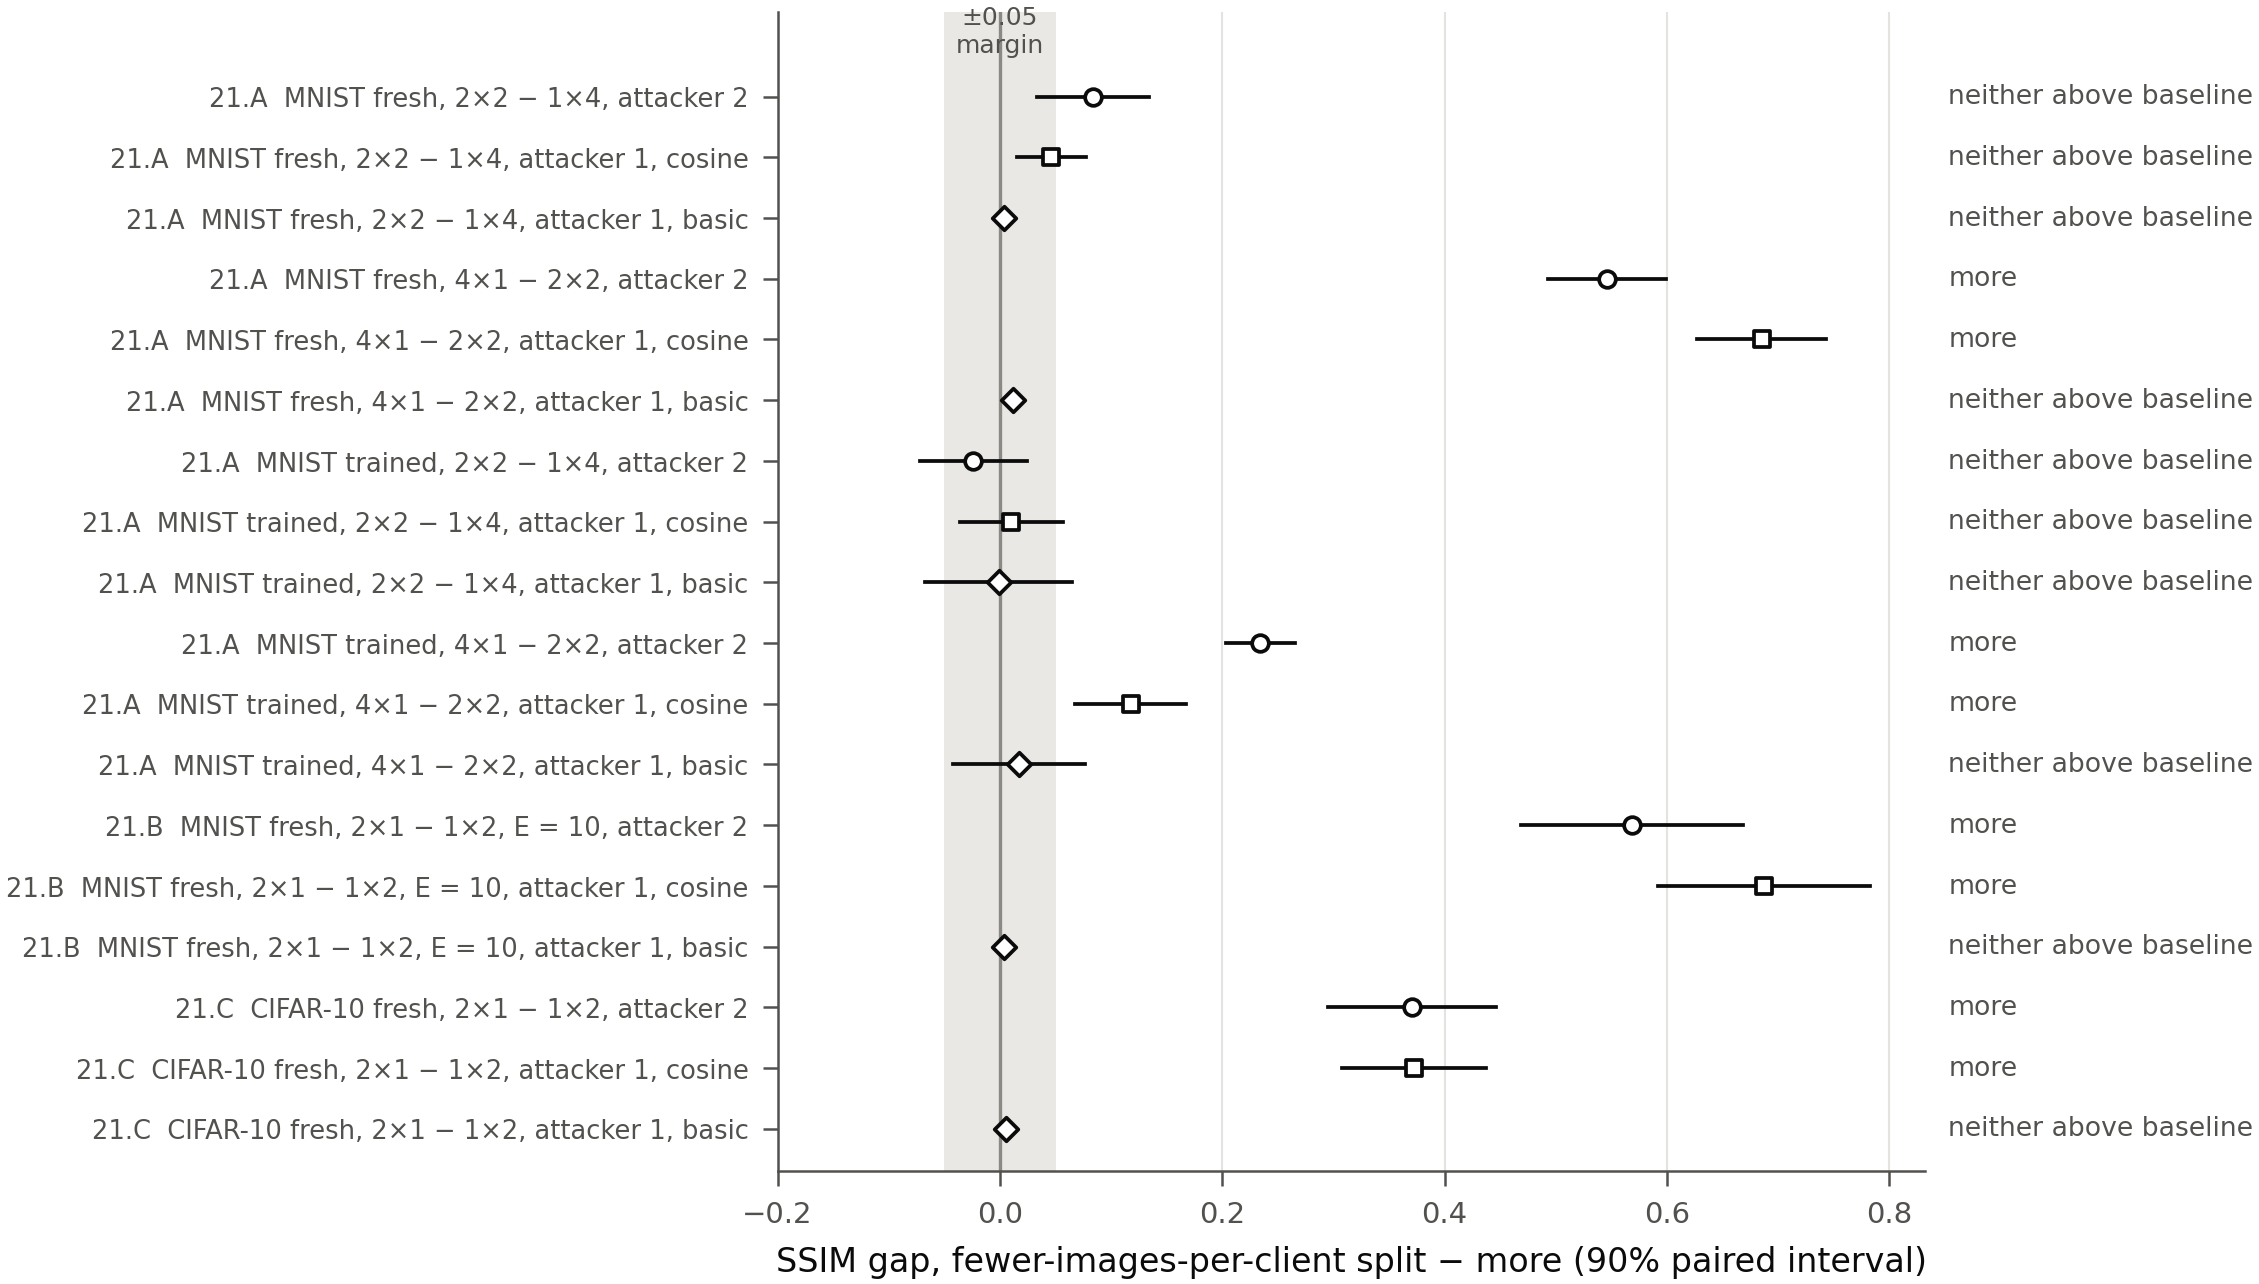
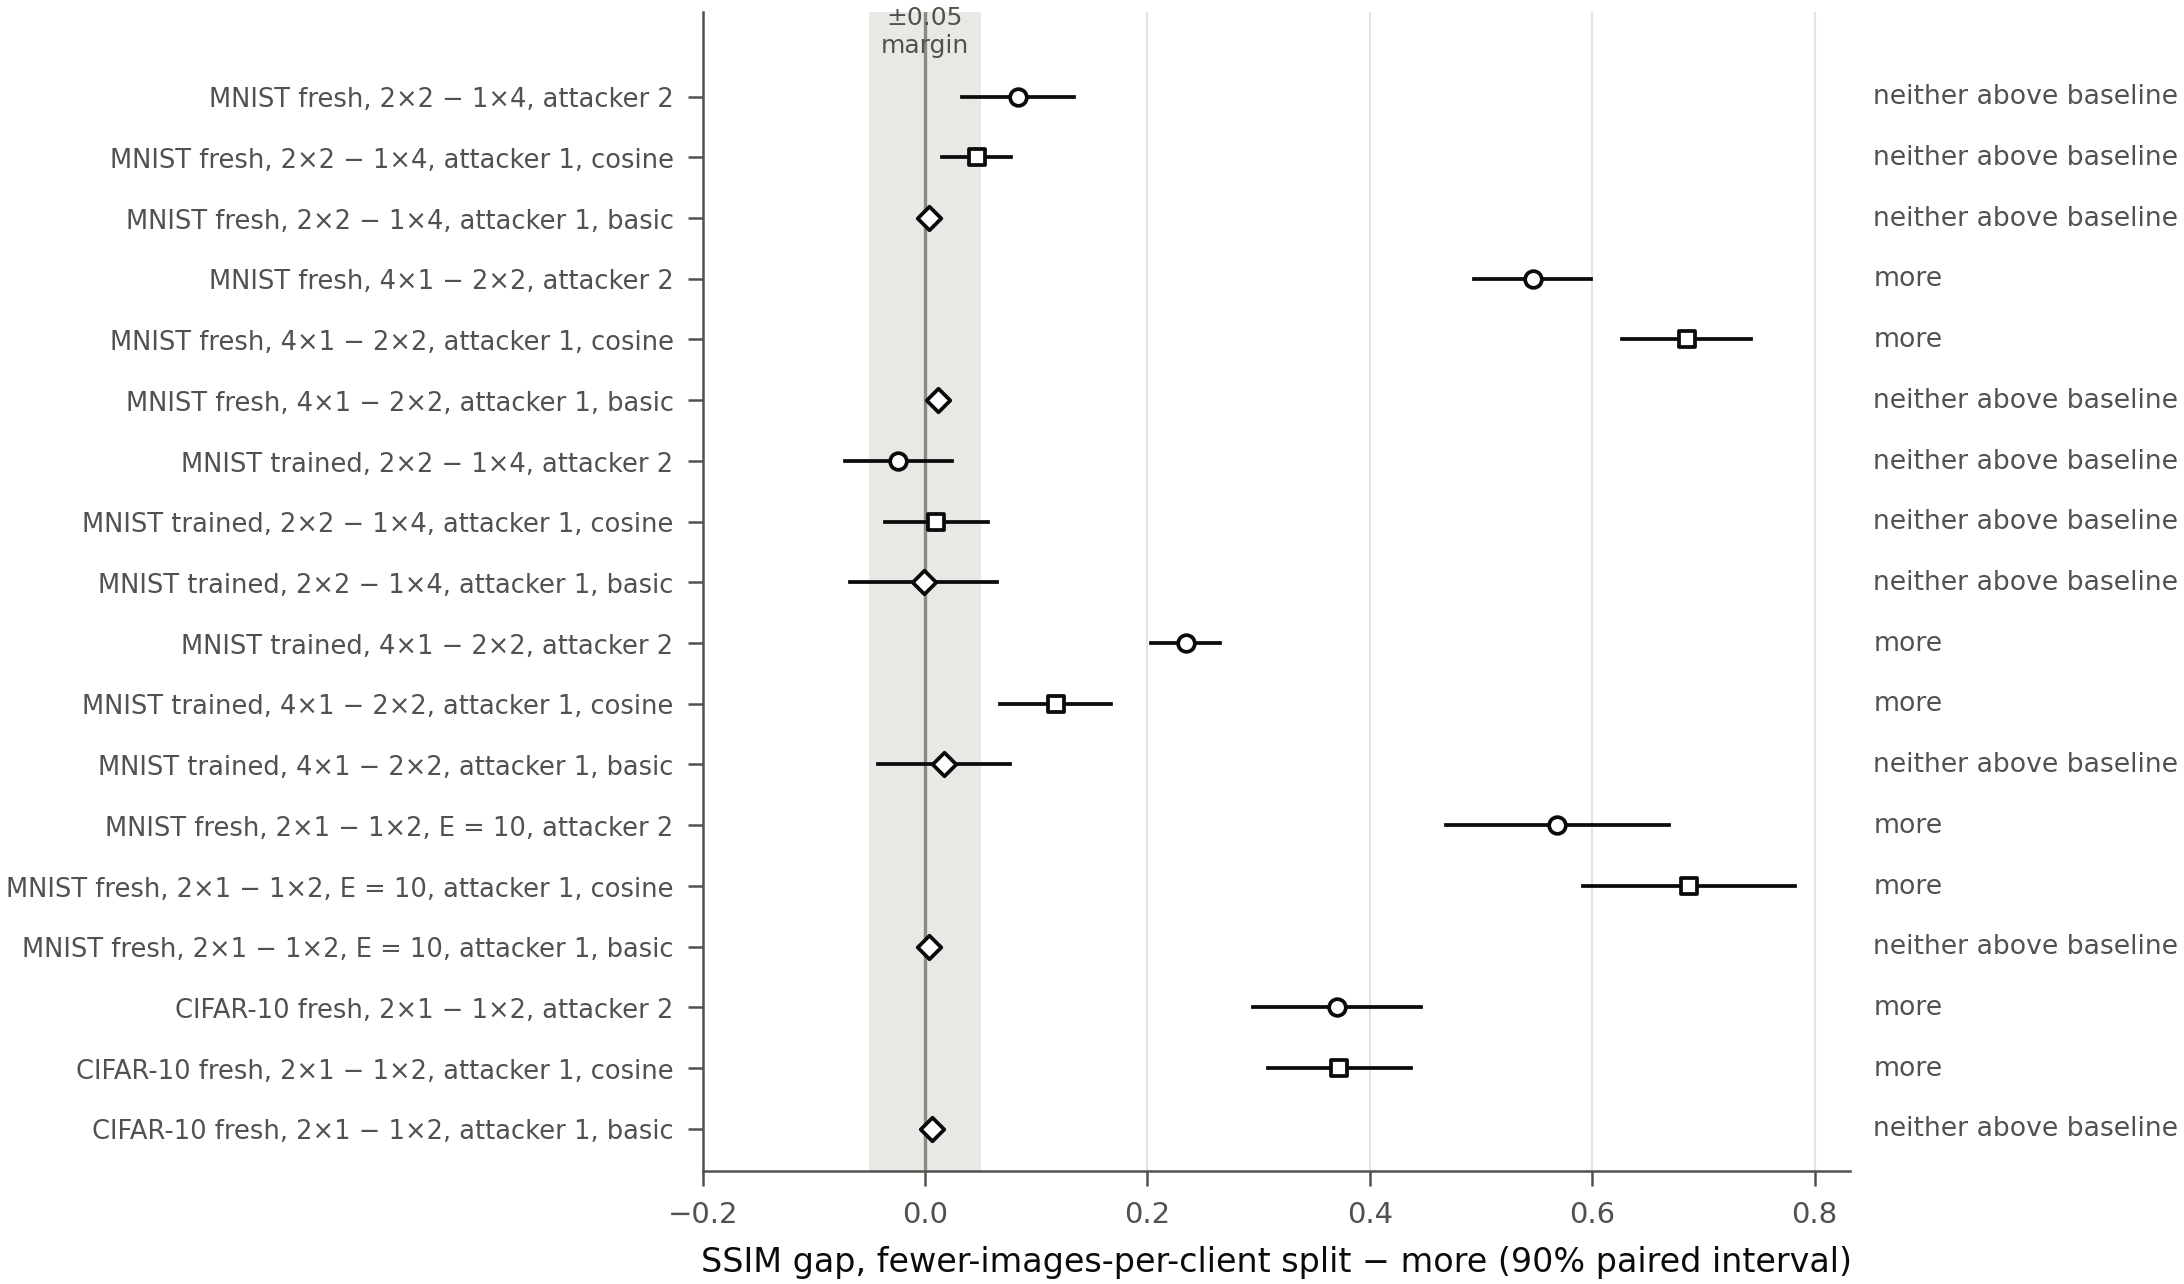
Let attacker 2 try another label order

diff --git a/scripts/attack_multiclient.py b/scripts/attack_multiclient.py
@@ -41,7 +41,7 @@ OUT = {"targets": "results/journal/targets", "pilot": os.path.join(PILOT_DIR, "g
        "range": "results/journal/smoke"}
 # Fields a finished record must share with its task; anything else is a different run.
 TASK_KEYS = ["setting", "n", "e", "split", "attacker", "release", "checkpoint", "image_indices",
-             "local_lr", "tv", "restart_seeds", "iters", "cosine_iters", "unrolled_iters"]
+             "local_lr", "tv", "restart_seeds", "iters", "cosine_iters", "unrolled_iters", "label_perm"]
 
 
 class Fatal(RuntimeError):
@@ -140,6 +140,7 @@ def make_tasks(args):
                     "restart_seeds": [seed + j for j in range(args.restarts)],
                     "iters": args.iters, "cosine_iters": args.cosine_iters,
                     "unrolled_iters": args.unrolled_iters, "releases": args.releases_label,
+                    "label_perm": args.label_perm,
                     "git_commit": args.git_commit,
                     "path": task_path(args.out, setting, n, e, split, attacker, rel["release"])})
     return tasks
@@ -240,11 +241,13 @@ def run_task(t):
     x, y, meta = load_images(setting["dataset"], t["image_indices"])
     model, ckpt_hash = load_checkpoint(t["setting"], meta, t["checkpoint"])
     split, e, lr = tuple(t["split"]), t["e"], t["local_lr"]
-    observed = mc.make_release(model, x, y, split, e, lr)
+    observed = mc.make_release(model, x, y, split, e, lr)  # always the true label order
     drift, norm_ratio = mc.drift(model, x, y, e, lr)
     if e == 1 and not drift >= E1_DRIFT_MIN:
         raise Fatal(f"E = 1 drift {drift} < {E1_DRIFT_MIN} on release {t['release']}: a bug")
-    recon, info = attack(model, observed, x, y, t, meta)
+    # The attacker may assign the labels to clients in another order.
+    y_attacker = y[t["label_perm"]] if t.get("label_perm") is not None else y
+    recon, info = attack(model, observed, x, y_attacker, t, meta)
     records, _, order = match_with_order(recon, list(x))
     slot_to_target = [order.index(i) for i in range(len(order))]
     attacker_number, objective = ATTACKER_INFO[t["attacker"]]
@@ -448,6 +451,9 @@ def parse_args(argv=None):
     p.add_argument("--local-lr", default="auto", help="a number, or auto: the learning-rate rule pick")
     p.add_argument("--lr-rule", default=None, help="default: the learning-rate rule file of each setting's dataset")
     p.add_argument("--restarts", type=int, default=2)
+    p.add_argument("--label-perm", nargs="+", type=int, default=None,
+                   help="Attacker 2 gives slot i the label of image perm[i]; "
+                        "only with --splits multi --attackers unrolled --es 5 and one N")
     p.add_argument("--iters", type=int, default=300, help="L-BFGS outer steps")
     p.add_argument("--cosine-iters", type=int, default=3000)
     p.add_argument("--unrolled-iters", type=int, default=3000)
@@ -473,6 +479,12 @@ def parse_args(argv=None):
         mode = args.releases
     if args.groups is None:
         args.groups = 30 if mode != "pilot" else 10 ** 6
+    if args.label_perm is not None:
+        ok = (args.splits == ["multi"] and args.attackers == ["unrolled"] and 1 not in args.es
+              and len(args.ns) == 1 and sorted(args.label_perm) == list(range(args.ns[0])))
+        if not ok or args.out is None:
+            sys.exit("--label-perm needs --splits multi --attackers unrolled, no E = 1, one N, "
+                     "a permutation of 0..N-1 and its own --out")
     args.out = args.out or OUT[mode]
     args.git_commit = git_commit()
     return args

diff --git a/tests/test_attack_multiclient.py b/tests/test_attack_multiclient.py
@@ -197,3 +197,30 @@ def test_current_checkpoint_hash_is_the_pinned_fresh_hash(monkeypatch):
     monkeypatch.setitem(checkpoints.FRESH_STATE_SHA256, 2, "0" * 64)
     with pytest.raises(am.Fatal):
         am.current_checkpoint_hash("mnist-fresh", 2)
+
+
+def test_label_perm_needs_the_n_x_1_attacker_2_cell(tmp_path):
+    with pytest.raises(SystemExit):
+        _args(tmp_path, "--label-perm", "1", "0")  # all splits and attackers
+    with pytest.raises(SystemExit):
+        _args(tmp_path, "--label-perm", "0", "0", "--splits", "multi", "--attackers", "unrolled", "--es", "5")
+    args = _args(tmp_path, "--label-perm", "1", "0", "--splits", "multi", "--attackers", "unrolled",
+                 "--es", "5", "--groups", "1")
+    (task,) = am.make_tasks(args)
+    assert task["label_perm"] == [1, 0] and task["split"] == [2, 1]
+    assert am.make_tasks(_args(tmp_path, "--groups", "1"))[0]["label_perm"] is None
+
+
+@pytest.mark.skipif(not HAS_DATA, reason="MNIST not downloaded")
+def test_label_perm_changes_the_attackers_labels_not_the_release(tmp_path, in_root):
+    """The release keeps the true order; only attacker 2's slot labels move."""
+    common = ["--splits", "multi", "--attackers", "unrolled", "--es", "5", "--groups", "1", "--workers", "1"]
+    (true_task,) = am.make_tasks(_args(tmp_path / "true", *common))
+    (swap_task,) = am.make_tasks(_args(tmp_path / "swap", *common, "--label-perm", "1", "0"))
+    a, b = am.run_task(true_task), am.run_task(swap_task)
+    assert a["labels"] == b["labels"] and a["labels"][0] != a["labels"][1]
+    assert a["slot_labels"] == a["labels"] and b["slot_labels"] == a["labels"][::-1]
+    assert a["release_norm"] == pytest.approx(b["release_norm"])
+    am.check_finished(swap_task)
+    with pytest.raises(SystemExit):
+        am.check_finished(dict(swap_task, label_perm=None))

diff --git a/scripts/make_addon_figures.py b/scripts/make_addon_figures.py
@@ -49,7 +49,7 @@ def fig_addons_forest(out, rows):
                    edgecolor=fs.INK, linewidth=0.9, zorder=3)
         ax.text(1.02, yi, r["outcome"], va="center", ha="left", fontsize=6.4, color=fs.INK_2,
                 transform=ax.get_yaxis_transform(), clip_on=False)
-        names.append(f"{r['group']}  {_row_name(r)}")
+        names.append(_row_name(r))
     ax.set_yticks(y)
     ax.set_yticklabels(names, fontsize=6.2)
     ax.set_xlabel("SSIM gap, fewer-images-per-client split − more (90% paired interval)")
